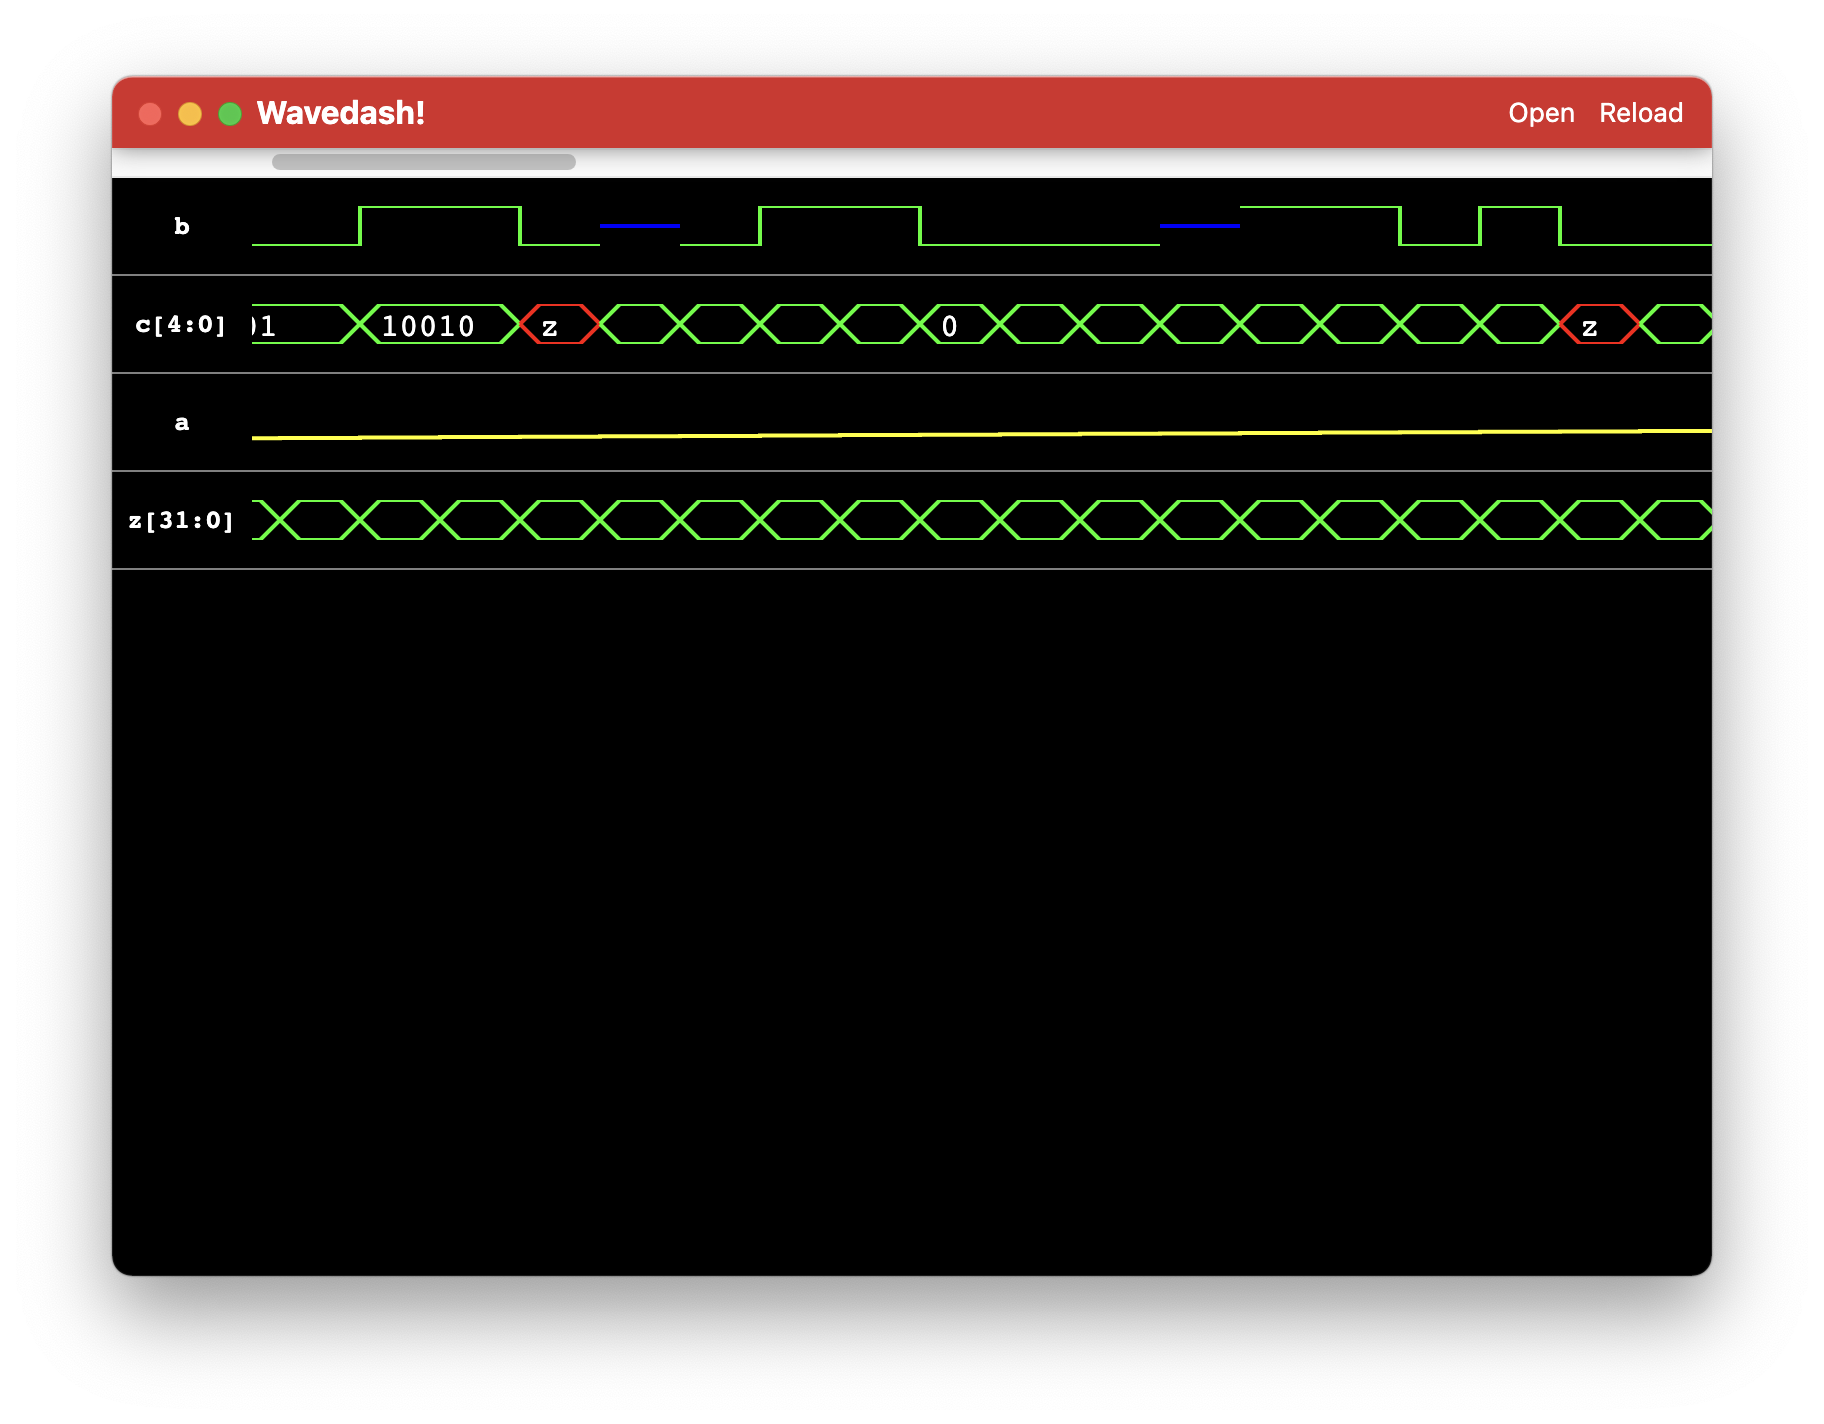
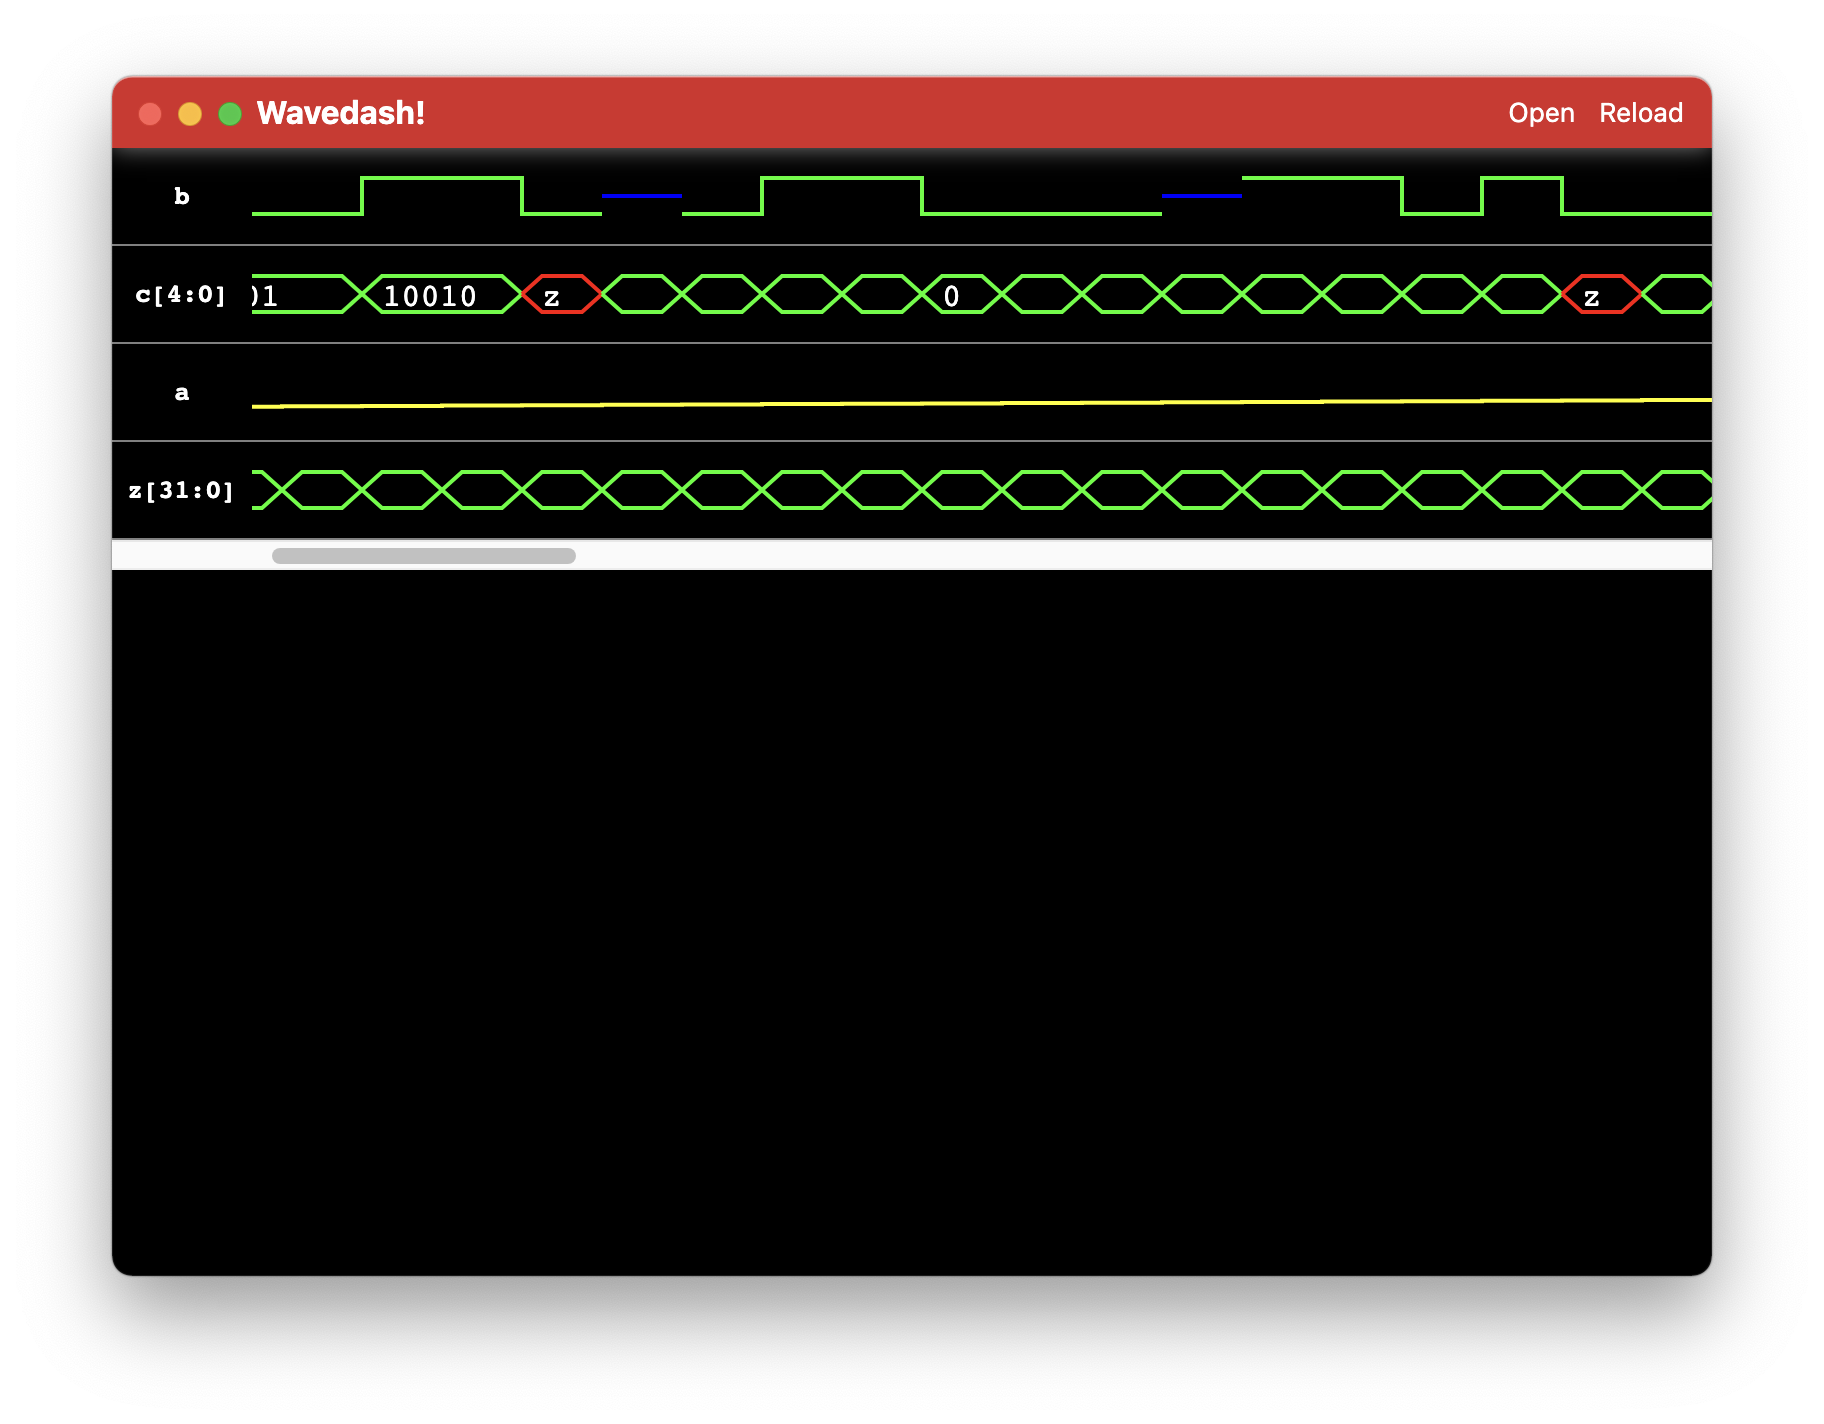
SVG Thickness Fix, Electron Tweaks

Changed region(s): [[0.0625, 0.0927, 0.9375, 0.2472], [0.0625, 0.2781, 0.9375, 0.4017]]

diff --git a/lib/svg.js b/lib/svg.js
@@ -3,6 +3,8 @@
 const defaultConfig = {
     height: 20,
     width: 2, // Per Time Unit
+
+    strokeWidth: 2,
     
     colors: {
         digital: "#00FF00",
@@ -25,7 +27,7 @@ export function fromSignal(signal, endTime, config = null) {
         config[element] = config[element] ?? defaultConfig[element];
     }
 
-    let { height, width, colors } = config;
+    let { height, width, strokeWidth, colors } = config;
 
     const fontSize = height * 0.8;
 
@@ -44,6 +46,8 @@ export function fromSignal(signal, endTime, config = null) {
         |
         V
         y
+
+        Note: if you stroke along an axis, it will chop off the stroke width in half.
     */
 
     let paths = [];
@@ -60,7 +64,7 @@ export function fromSignal(signal, endTime, config = null) {
         }
         if (color) {
             let [x, y] = at;
-            paths.push(`<path stroke="${color}" fill="transparent" stroke-width="2px" d="M ${x} ${y}`);
+            paths.push(`<path stroke="${color}" fill="transparent" stroke-width="${strokeWidth}" d="M ${x} ${y}`);
         }
     };
 
@@ -81,7 +85,7 @@ export function fromSignal(signal, endTime, config = null) {
             }
         }
 
-        let clamp = (value) => (value - valueMin) / (valueMax - valueMin);
+        let clamp = (value) => ((value - valueMin) / (valueMax - valueMin)) * 0.9 + 0.05;
 
         for (let [time, rawValue] of wave) {
 
@@ -172,15 +176,17 @@ export function fromSignal(signal, endTime, config = null) {
             default:               
                 break;
             }
+
+            const fallRiseDelta = (height / 2) * 0.9;
             
             cutPath(color, [width * from, height / 2]);
-            append(`l ${slopeWidth} ${height / 2}`);
+            append(`l ${slopeWidth} ${fallRiseDelta}`);
             append(`l ${straightWidth} 0`);
-            append(`l ${slopeWidth} ${-height / 2}`);
-            append(`l ${-slopeWidth} ${-height / 2}`);
+            append(`l ${slopeWidth} ${-fallRiseDelta}`);
+            append(`l ${-slopeWidth} ${-fallRiseDelta}`);
             append(`l ${-straightWidth} 0`);
-            append(`l ${-slopeWidth} ${height / 2}`);
-            append(`M ${totalWidth} ${height / 2}`);
+            append(`l ${-slopeWidth} ${fallRiseDelta}`);
+            append(`M ${totalWidth} ${fallRiseDelta}`);
 
             // Estimate Text Width
             let estWidth = (fontSize * 0.75);

diff --git a/src/app.js b/src/app.js
@@ -6,7 +6,7 @@ import "./app.css";
 
 const WAVEDASH_ID = "wavedash";
 
-let query = location.search.slice(1).split("&").filter(p=> p).reduce(
+const query = location.search.slice(1).split("&").filter(p=> p).reduce(
     (dict, kv)=> {
         console.log(kv);
         let [key, value] = kv.split("=");
@@ -15,9 +15,9 @@ let query = location.search.slice(1).split("&").filter(p=> p).reduce(
     }, {}
 );
 
-let loadedFile = null;
-async function load() {
-    if (!loadedFile) {
+window.currentFile = null;
+window.load = async function() {
+    if (!window.currentFile) {
         return;
     }
     const reader = new FileReader();
@@ -27,8 +27,17 @@ async function load() {
         let wd = new Wavedash(WAVEDASH_ID, decoded);
         wd.attach();
     });
-    reader.readAsDataURL(loadedFile);
+    reader.readAsDataURL(window.currentFile);
 }
+window.fakeInput = n("input", e=> {
+    e.type = "file";
+    e.onchange = (ev) => {
+        window.currentFile = e.files[0];
+        load();
+    }
+    e.accept = ".vcd"
+}) ;
+
 
 async function main() {
     let app = g("#app");
@@ -41,16 +50,9 @@ async function main() {
 
         e.appendChild(n("button", e=> {
             e.innerHTML = "Open";
-            let fakeInput = n("input", e=> {
-                e.type = "file";
-                e.onchange = (ev) => {
-                    loadedFile = e.files[0];
-                    load();
-                }
-                e.accept = ".vcd"
-            }) ;
+            
             e.onclick = () => {
-                fakeInput.click();
+                window.fakeInput.click();
             }
         }))
 

diff --git a/src/app.css b/src/app.css
@@ -25,7 +25,6 @@ body {
     align-self: center;
     vertical-align: middle;
     width: 100%;
-    margin-left: 64px;
 }
 
 .topbar > button {
@@ -44,9 +43,4 @@ body {
 #wavedash {
     max-width: 100%;
     overflow-x: scroll;
-    transform: rotateX(180deg);
-}
-
-#wavedash > * {
-    transform: rotateX(180deg);
 }
